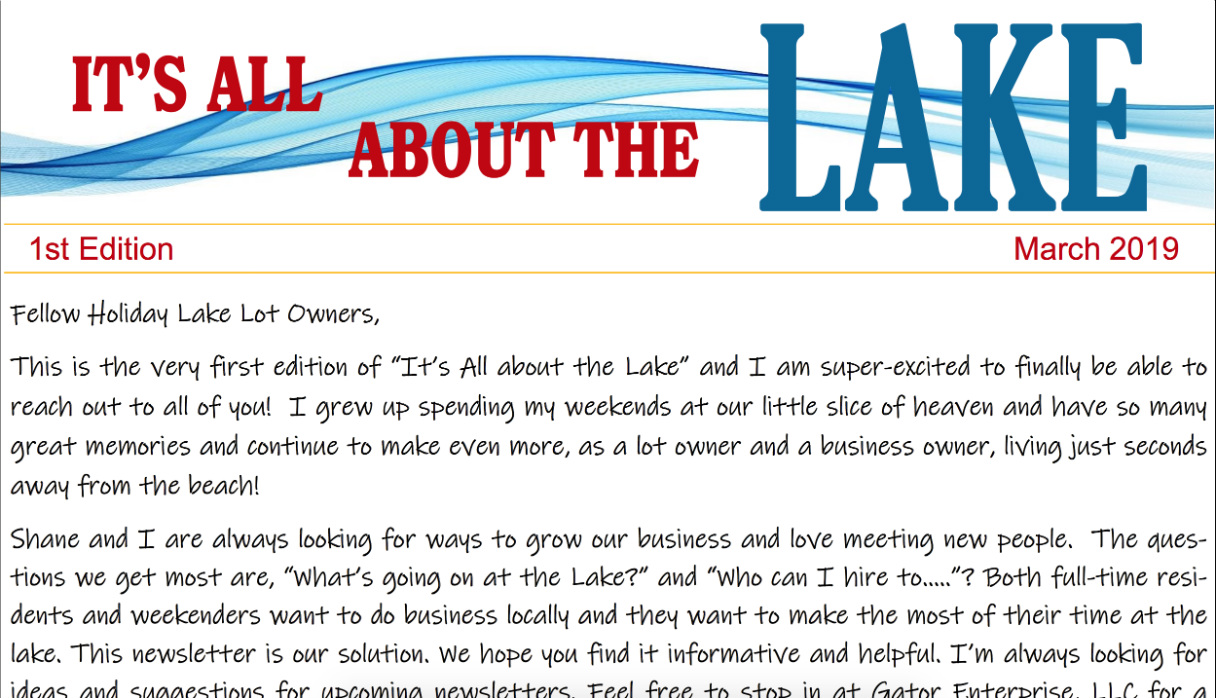
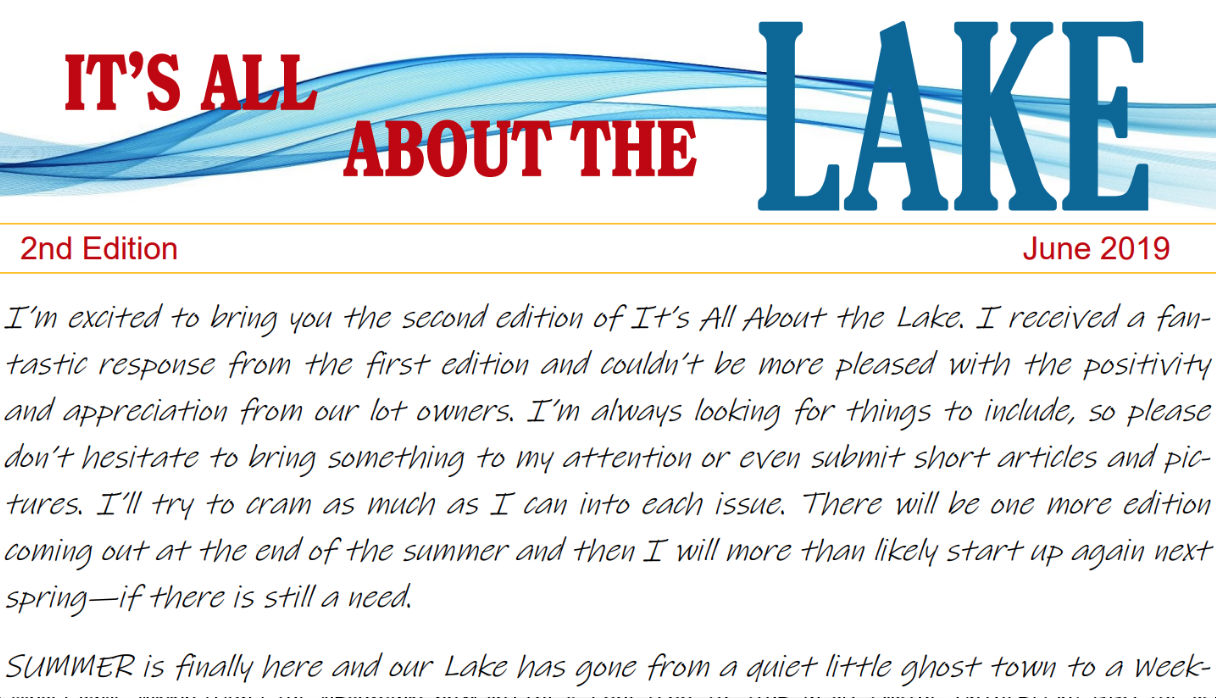
newsletter update

diff --git a/index.html b/index.html
@@ -1,1 +1,1 @@
-<!doctype html><meta charset=utf-8><meta http-equiv=X-UA-Compatible content="IE=edge"><meta name=description content=""><meta name=viewport content="width=device-width,initial-scale=1"><title>Gator Enterprise</title><link rel=icon type=image/png href=/favicon.png><link rel=apple-touch-icon-precomposed href=images/touch/favicon-152.png><link rel=icon sizes=192x192 href=images/touch/chrome-touch-icon-192x192.png><meta name=msapplication-tap-highlight content=no><meta name=theme-color content=#2c2c2c><link href="https://fonts.googleapis.com/css?family=Roboto" rel=stylesheet><link rel=stylesheet href=styles/gator.css><script src=https://code.jquery.com/jquery-2.2.4.min.js integrity="sha256-BbhdlvQf/xTY9gja0Dq3HiwQF8LaCRTXxZKRutelT44=" crossorigin=anonymous></script><header><nav role=navigation><ul><li><a href=/ ><img class=logo src=/images/logo-full.png alt="Gator Enterprise"></a><li class="menu-item active"><a href=/ >Home</a><li class=menu-item><a href=/marine>Marine</a><li class=menu-item><a href=/engines>Engines</a><li class=menu-item><a href=/golf-carts>Golf Carts</a><li class=menu-item><a href=/contact>Contact Us</a></ul><div class=mobile-nav><a href=/ ><img class=logo src=/images/logo-full.png alt="Gator Enterprise"></a><button id=menu-toggle class=menu-toggle type=button><span class=toggle-box><span class=toggle-inner></span></span></button><div class=mobile-menu-items><ul><li class=active><a href=/ >Home</a><li><a href=/marine>Marine</a><li><a href=/engines>Engines</a><li><a href=/golf-carts>Golf Carts</a><li><a href=/contact>Contact Us</a></ul></div></div></nav></header><div class=shadow></div><section><div id=intro><div class=image alt="inside the shop"><div class=overlay><h3>General Repair Service</h3></div></div><div class=services><ul><li>Outdoor Power<li><a href=/marine>Marine</a><li><a href=/golf-carts>Golf Carts</a><li>Power Sports<li>Metal Fabrication<li>Welding<li><a href=/engines>Custom Engines</a></ul></div></div></section><section class=home-content><div id=stay-in-touch><div id=newsletter><a href=newsletters/2019-03-March-Newsletter.pdf target=_blank>Read our latest newsletter</a></div><div id=timeline><div class=fb-page data-href=https://www.facebook.com/GatorEnterprise/ data-tabs=timeline data-small-header=false data-height=608 data-width=500 data-adapt-container-width=true data-hide-cover=true data-show-facepile=false><blockquote cite=https://www.facebook.com/GatorEnterprise/ class=fb-xfbml-parse-ignore><a href=https://www.facebook.com/GatorEnterprise/ >Gator Enterprise</a></blockquote></div></div></div><div class=location-info><div class=map><iframe src="https://www.google.com/maps/embed?pb=!1m14!1m8!1m3!1d5946.536177994059!2d-92.434124!3d41.822525!3m2!1i1024!2i768!4f13.1!3m3!1m2!1s0x0%3A0x615f65d4e9085373!2sGator+Enterprise%2C+LLC!5e0!3m2!1sen!2sus!4v1502378364664" frameborder=0 style=border:0 allowfullscreen></iframe></div><div class=general-info><h3>Shop Info</h3><div><h4>Hours:</h4><ul><li>Monday - Friday : 8am - 5pm</ul><ul><li>Labor Day - Memorial Day<br><span>Saturdays : 8am - Noon</span></ul></div><div><h4>Address:</h4><ul><li>1786 328th Ave.<br>Brooklyn, IA 52211</ul><h4>Phone:</h4><ul><li>Shop: 641-522-7313<li>After hours: 319-310-5526</ul></div></div></div></section><div id=fb-root></div><script src=scripts/home-page.js></script>
+<!doctype html><meta charset=utf-8><meta http-equiv=X-UA-Compatible content="IE=edge"><meta name=description content=""><meta name=viewport content="width=device-width,initial-scale=1"><title>Gator Enterprise</title><link rel=icon type=image/png href=/favicon.png><link rel=apple-touch-icon-precomposed href=images/touch/favicon-152.png><link rel=icon sizes=192x192 href=images/touch/chrome-touch-icon-192x192.png><meta name=msapplication-tap-highlight content=no><meta name=theme-color content=#2c2c2c><link href="https://fonts.googleapis.com/css?family=Roboto" rel=stylesheet><link rel=stylesheet href=styles/gator.css><script src=https://code.jquery.com/jquery-2.2.4.min.js integrity="sha256-BbhdlvQf/xTY9gja0Dq3HiwQF8LaCRTXxZKRutelT44=" crossorigin=anonymous></script><header><nav role=navigation><ul><li><a href=/ ><img class=logo src=/images/logo-full.png alt="Gator Enterprise"></a><li class="menu-item active"><a href=/ >Home</a><li class=menu-item><a href=/marine>Marine</a><li class=menu-item><a href=/engines>Engines</a><li class=menu-item><a href=/golf-carts>Golf Carts</a><li class=menu-item><a href=/contact>Contact Us</a></ul><div class=mobile-nav><a href=/ ><img class=logo src=/images/logo-full.png alt="Gator Enterprise"></a><button id=menu-toggle class=menu-toggle type=button><span class=toggle-box><span class=toggle-inner></span></span></button><div class=mobile-menu-items><ul><li class=active><a href=/ >Home</a><li><a href=/marine>Marine</a><li><a href=/engines>Engines</a><li><a href=/golf-carts>Golf Carts</a><li><a href=/contact>Contact Us</a></ul></div></div></nav></header><div class=shadow></div><section><div id=intro><div class=image alt="inside the shop"><div class=overlay><h3>General Repair Service</h3></div></div><div class=services><ul><li>Outdoor Power<li><a href=/marine>Marine</a><li><a href=/golf-carts>Golf Carts</a><li>Power Sports<li>Metal Fabrication<li>Welding<li><a href=/engines>Custom Engines</a></ul></div></div></section><section class=home-content><div id=stay-in-touch><div id=newsletter><a href=newsletters/2019-06-June-Newsletter.pdf target=_blank>Read our latest newsletter</a></div><div id=timeline><div class=fb-page data-href=https://www.facebook.com/GatorEnterprise/ data-tabs=timeline data-small-header=false data-height=608 data-width=500 data-adapt-container-width=true data-hide-cover=true data-show-facepile=false><blockquote cite=https://www.facebook.com/GatorEnterprise/ class=fb-xfbml-parse-ignore><a href=https://www.facebook.com/GatorEnterprise/ >Gator Enterprise</a></blockquote></div></div></div><div class=location-info><div class=map><iframe src="https://www.google.com/maps/embed?pb=!1m14!1m8!1m3!1d5946.536177994059!2d-92.434124!3d41.822525!3m2!1i1024!2i768!4f13.1!3m3!1m2!1s0x0%3A0x615f65d4e9085373!2sGator+Enterprise%2C+LLC!5e0!3m2!1sen!2sus!4v1502378364664" frameborder=0 style=border:0 allowfullscreen></iframe></div><div class=general-info><h3>Shop Info</h3><div><h4>Hours:</h4><ul><li>Monday - Friday : 8am - 5pm</ul><ul><li>Labor Day - Memorial Day<br><span>Saturdays : 8am - Noon</span></ul></div><div><h4>Address:</h4><ul><li>1786 328th Ave.<br>Brooklyn, IA 52211</ul><h4>Phone:</h4><ul><li>Shop: 641-522-7313<li>After hours: 319-310-5526</ul></div></div></div></section><div id=fb-root></div><script src=scripts/home-page.js></script>
